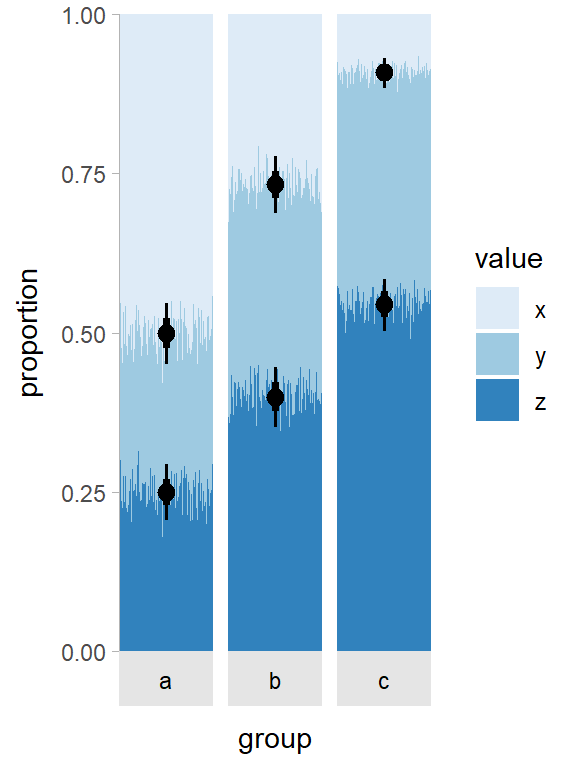
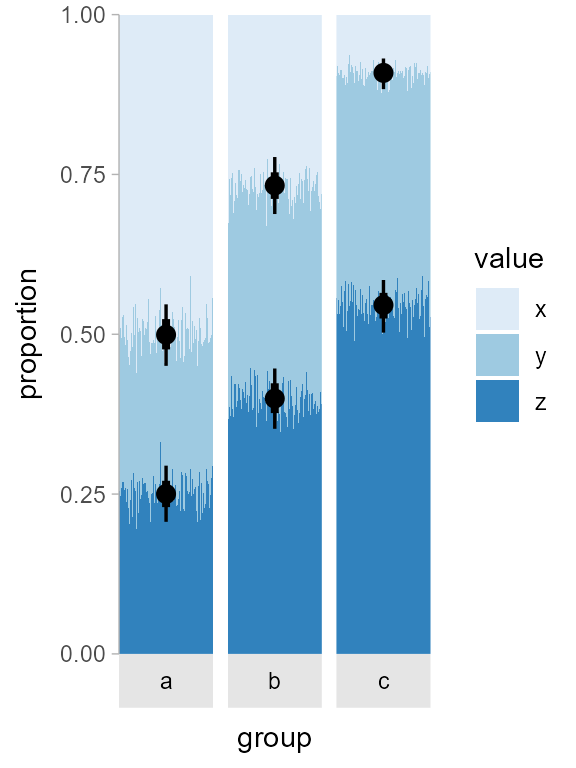
gradient fuzzy bars

diff --git a/cumulative-proportion.md b/cumulative-proportion.md
@@ -78,3 +78,78 @@ df |>
 ```
 
 <img src="cumulative-proportion_files/figure-gfm/fuzzy_bars-1.png" width="288" />
+
+## Gradient fuzzy bars
+
+To recreate the above charts using a gradient instead of many
+smooshed-together bars, we need to do some color mixing: we want to
+calculate how much of each color should be at each cumulative proportion
+$p$ (each point along the y axis). For a given value (x, y, or z), this
+will be the probability that the cumulative proportion for that value is
+greater than `p` times the probability that the cumulative proportion
+for the preceding value is less than `p`:
+
+``` r
+p = seq(0, 1 - .Machine$double.eps, length.out = 200)
+
+df_curves = df |>
+  mutate(cumulative_proportion = cumsum(proportion), .by = c(.draw, group)) |>
+  reframe(
+    `P(value)` = (1 - ecdf(cumulative_proportion)(p)) * ecdf(cumulative_proportion - proportion)(p),
+    proportion = p,
+    .by = c(group, value)
+  )
+```
+
+We can check what these curves look like to make sure they’re doing what
+we want:
+
+``` r
+df_curves |>
+  ggplot(aes(x = proportion, y = `P(value)`, color = value)) +
+  geom_line(linewidth = 1) +
+  facet_grid(group ~ .) +
+  scale_color_brewer()
+```
+
+<img src="cumulative-proportion_files/figure-gfm/color_curves-1.png" width="672" />
+
+Now we just have to mix the colors manually:
+
+``` r
+library(farver)
+
+# create and train the scale manually so we can use it to get the colors to mix
+fill_scale = scale_fill_brewer(direction = -1)
+fill_scale$train(c("x", "y", "z"))
+
+df_curves |>
+  # mix the colors manually in the OKLab color space (which is roughly perceptually 
+  # uniform and which has better color mixing than Lab, especially for blues)
+  summarise(
+    color = encode_colour(`P(value)` %*% decode_colour(fill_scale$map(value), to = "oklab"), from = "oklab"),
+    .by = c(group, proportion)
+  ) |>
+  ggplot() +
+  # need this blank geom to create a fill legend, since we aren't actually using the fill
+  # scale in the slab geometry (we already pre-computed the colors above)
+  geom_blank(aes(fill = value), data = data.frame(value = c("x", "y", "z"))) +
+  geom_slab(
+    aes(y = proportion, x = group, fill = I(color), group = NA), 
+    thickness = 1, fill_type = "auto", side = "both"
+  ) +
+  stat_pointinterval(
+    aes(x = group, y = proportion, group = value), 
+    data = df |> 
+      # need 1 - p because position_stack goes top to bottom
+      # (or use position_stack(reverse = TRUE) above)
+      mutate(proportion = cumsum(proportion), .by = c(.draw, group)) |> 
+      # last proportion is pointless to plot because it is 0 with no uncertainty
+      filter(value != "z")
+  ) +
+  fill_scale +
+  scale_y_continuous(limits = c(0, 1)) +
+  coord_cartesian(expand = FALSE)
+```
+
+<img src="cumulative-proportion_files/figure-gfm/gradient_bars-1.png" width="288" />
